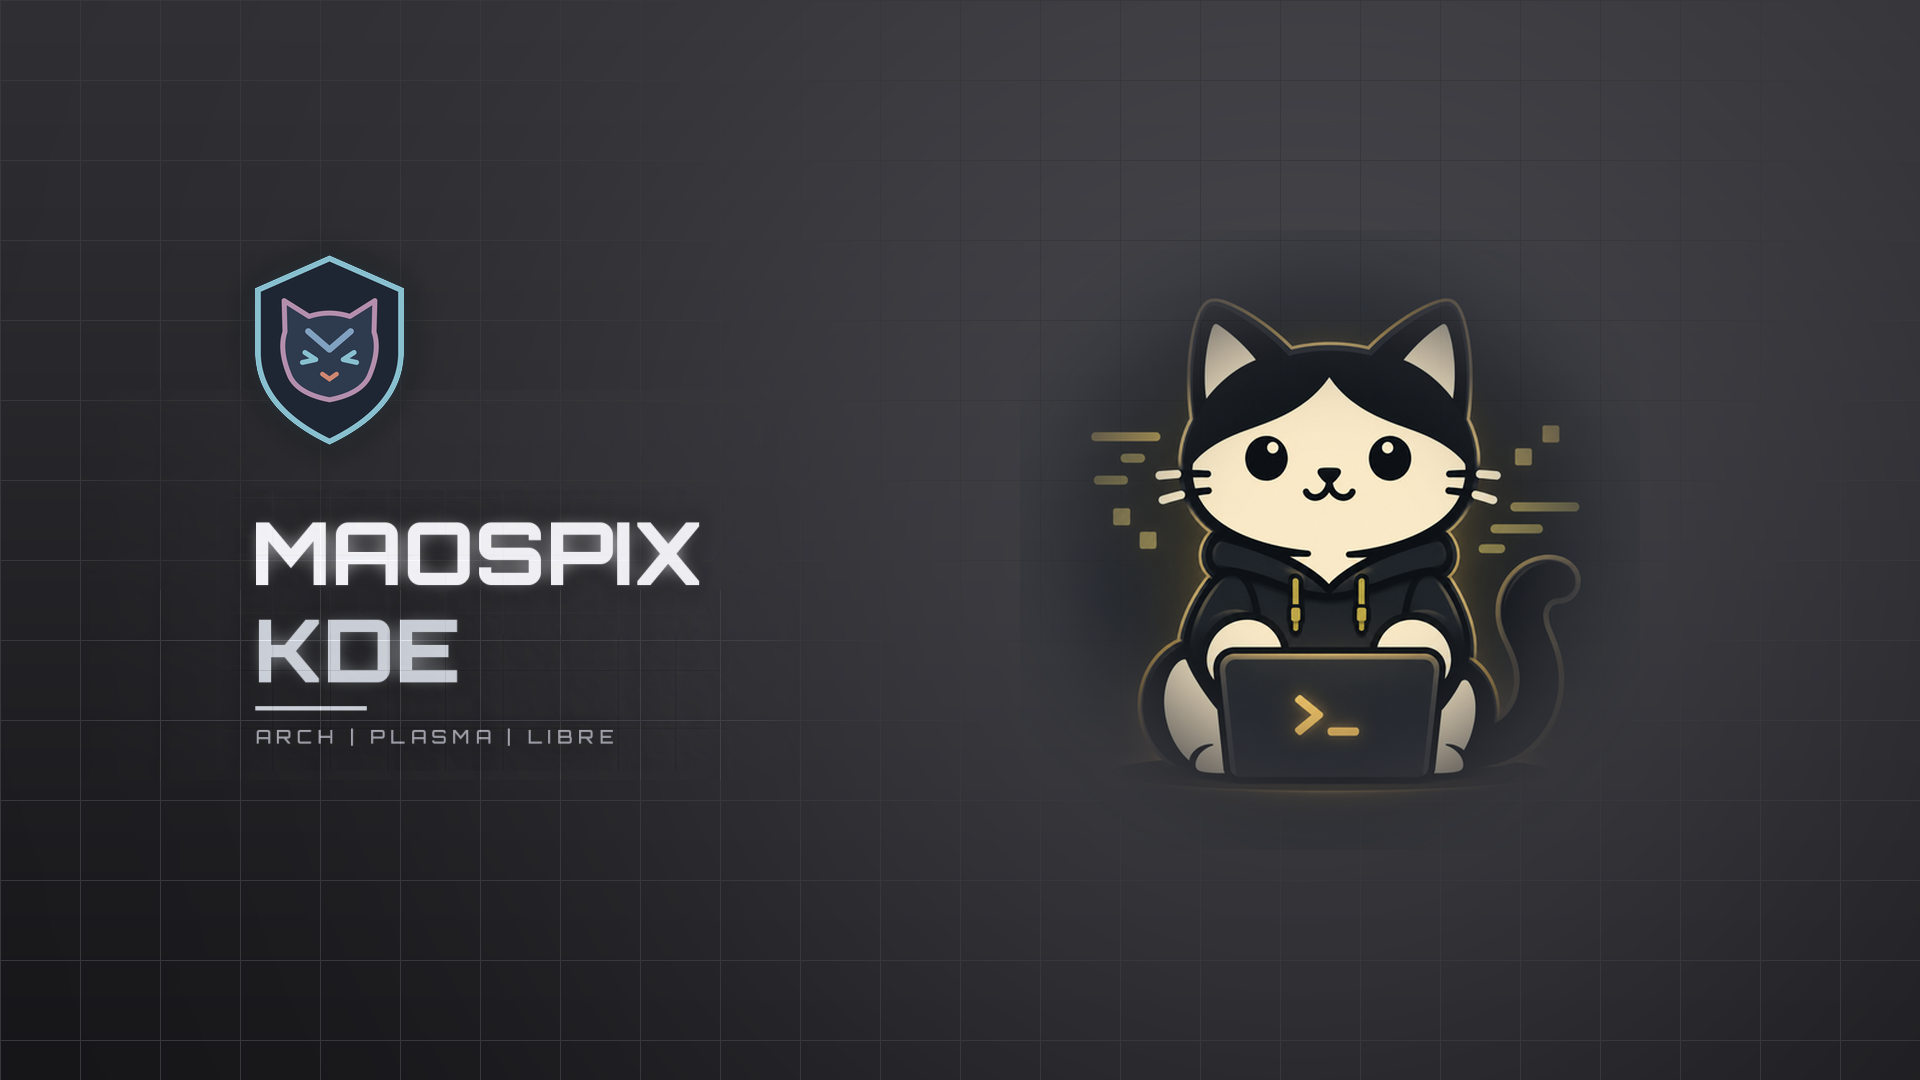
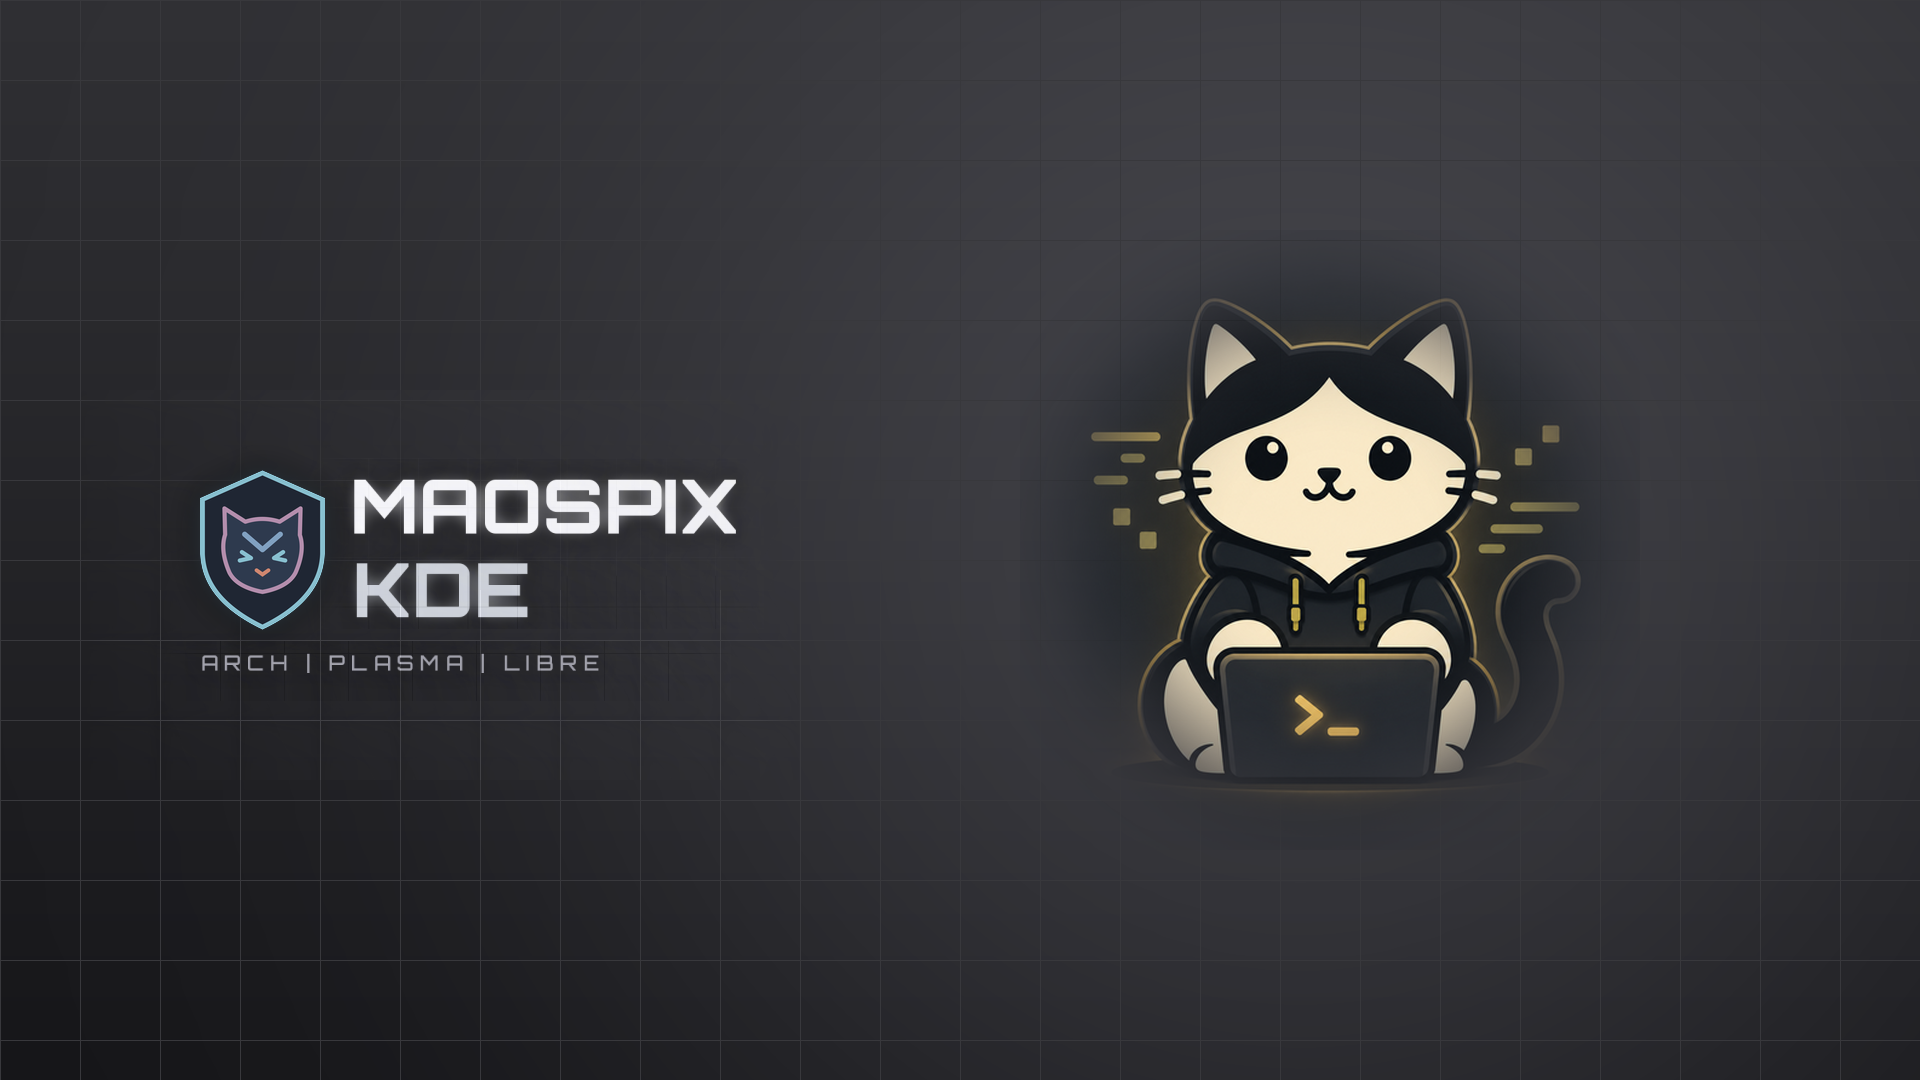
Wallpapers: escudo a la izquierda, MAOSPIX KDE a la derecha y el lema debajo (como la referencia de Marcos)

diff --git a/tools/gen-wallpapers.py b/tools/gen-wallpapers.py
@@ -11,8 +11,14 @@ DST = "archiso/airootfs/usr/share/wallpapers/Maospix%s/contents/images/1920x1080
 SHIELD = "assets/logo/maospix-escudo.svg"
 BOX = (80, 390, 800, 780)          # x0, y0, x1, y1 del bloque de texto con su brillo
 BOX_MAIN_X1 = 758                  # en el principal, las lineas del gato empiezan en x=745
-SCALE, NEWX, NEWY = 0.72, 215, 490  # tamaño y posicion nuevos del bloque
-SH_H, SH_Y = 190, 255              # alto y posicion del escudo
+# Composicion: escudo a la izquierda, "MAOSPIX / KDE" a su derecha y el lema debajo.
+SX, SH_Y, SH_H = 200, 470, 160      # escudo: x, y, alto
+# piezas del bloque original: (fila0, fila1, escala, x destino del texto, y destino de la fila0)
+PIECES = [
+    (400, 676, 0.62, SX + 125 + 28, 458),   # MAOSPIX + KDE
+    (705, 780, 0.80, SX, 641),              # ARCH | PLASMA | LIBRE (la barra se descarta)
+]
+ORIG_TEXT_X = 135                   # borde izquierdo del texto original
 
 
 def low_fill(a, robust=False):
@@ -71,16 +77,21 @@ def build(name, grid):
     orig = np.array(Image.open(SRC % name).convert("RGB"))
     clean_img = clean(orig, grid)
     x0, y0, x1, y1 = BOX
-    delta = orig[y0:y1, x0:x1].astype(np.int16) - clean_img[y0:y1, x0:x1].astype(np.int16)
-    w, h = round((x1 - x0) * SCALE), round((y1 - y0) * SCALE)
-    delta = cv2.resize(delta.astype(np.float32), (w, h), interpolation=cv2.INTER_AREA)
     out = clean_img.astype(np.float32)
-    out[NEWY:NEWY + h, NEWX:NEWX + w] += delta
+    for r0, r1, sc, tx, ty in PIECES:
+        delta = orig[r0:r1, x0:x1].astype(np.int16) - clean_img[r0:r1, x0:x1].astype(np.int16)
+        if not grid:  # solo el texto y su brillo, no las diferencias del fondo (plantas)
+            tm = (delta.sum(2) > 130).astype(np.uint8)
+            tm = cv2.dilate(tm, np.ones((3, 3), np.uint8), iterations=12)
+            delta = np.maximum(delta, 0) * cv2.GaussianBlur(tm.astype(np.float32), (0, 0), 6)[..., None]
+        w, h = round((x1 - x0) * sc), round((r1 - r0) * sc)
+        delta = cv2.resize(delta.astype(np.float32), (w, h), interpolation=cv2.INTER_AREA)
+        nx = round(tx - (ORIG_TEXT_X - x0) * sc)
+        out[ty:ty + h, nx:nx + w] += delta
     img = Image.fromarray(np.clip(out, 0, 255).astype(np.uint8))
     sh = shield_img()
-    sx = NEWX + round((140 - x0 + 80) * 0) + 40   # alineado con el borde del texto
     glow = Image.new("RGBA", img.size, (0, 0, 0, 0))
-    glow.paste(sh, (sx, SH_Y), sh)
+    glow.paste(sh, (SX, SH_Y), sh)
     g = glow.filter(ImageFilter.GaussianBlur(14))
     img = Image.alpha_composite(img.convert("RGBA"), g)
     img = Image.alpha_composite(img, glow)
